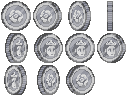
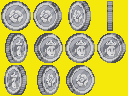
Added transparent background for anim sprites

diff --git a/sprites.py b/sprites.py
@@ -153,6 +153,7 @@ class Player(Sprite):
             self.current_frame = (self.current_frame + 1) % len(self.standing_frames)
             bottom = self.rect.bottom
             self.image = self.standing_frames[self.current_frame]
+            self.image.set_colorkey(pg.Color(245, 233, 12))
             self.rect = self.image.get_rect()
             self.rect.bottom = bottom
 
@@ -283,6 +284,7 @@ class Coin(Sprite):
             self.current_frame = (self.current_frame + 1) % len(self.standing_frames)
             bottom = self.rect.bottom
             self.image = self.standing_frames[self.current_frame]
+            self.image.set_colorkey(pg.Color(245, 233, 12))
             self.rect = self.image.get_rect()
             self.rect.bottom = bottom
     def update(self):
@@ -393,6 +395,7 @@ class Button(Sprite):
         self.rect.y = y * TILESIZE
         bottom = self.rect.bottom
         self.image = self.button[0]
+        self.image.set_colorkey(pg.Color(245, 233, 12))
         self.rect = self.image.get_rect()
         self.rect.bottom = bottom
         self.down = False
@@ -407,12 +410,14 @@ class Button(Sprite):
                 self.down = True
                 bottom = self.rect.bottom
                 self.image = self.button[1]
+                self.image.set_colorkey(pg.Color(245, 233, 12))
                 self.rect = self.image.get_rect()
                 self.rect.bottom = bottom
         else:
             self.down = False
             bottom = self.rect.bottom
             self.image = self.button[0]
+            self.image.set_colorkey(pg.Color(245, 233, 12))
             self.rect = self.image.get_rect()
             self.rect.bottom = bottom
 

diff --git a/main.py b/main.py
@@ -32,7 +32,6 @@ class Game:
         self.wall_image = pg.image.load(path.join(self.img_folder, "wall.jpg")).convert_alpha()
         self.fireball_image = pg.image.load(path.join(self.img_folder, "fireball.png")).convert_alpha()
         self.healthboost_image = pg.image.load(path.join(self.img_folder,"healthboost.png")).convert_alpha()
-        self.coin_image = pg.image.load(path.join(self.img_folder, "coin.png")).convert_alpha()
         self.mob_image = pg.image.load(path.join(self.img_folder, "mob.png")).convert_alpha()
         self.portal_closed_image = pg.image.load(path.join(self.img_folder, "portal_closed.png")).convert_alpha()
         self.portal_open_image = pg.image.load(path.join(self.img_folder, "portal_open.png")).convert_alpha()
@@ -72,7 +71,7 @@ class Game:
                 if tile == 'E':
                     Pushable(self, col, row)
                 if tile == 'B':
-                    Button(self, col, row)
+                    self.button = Button(self, col, row)
                 
 
     def new(self):
